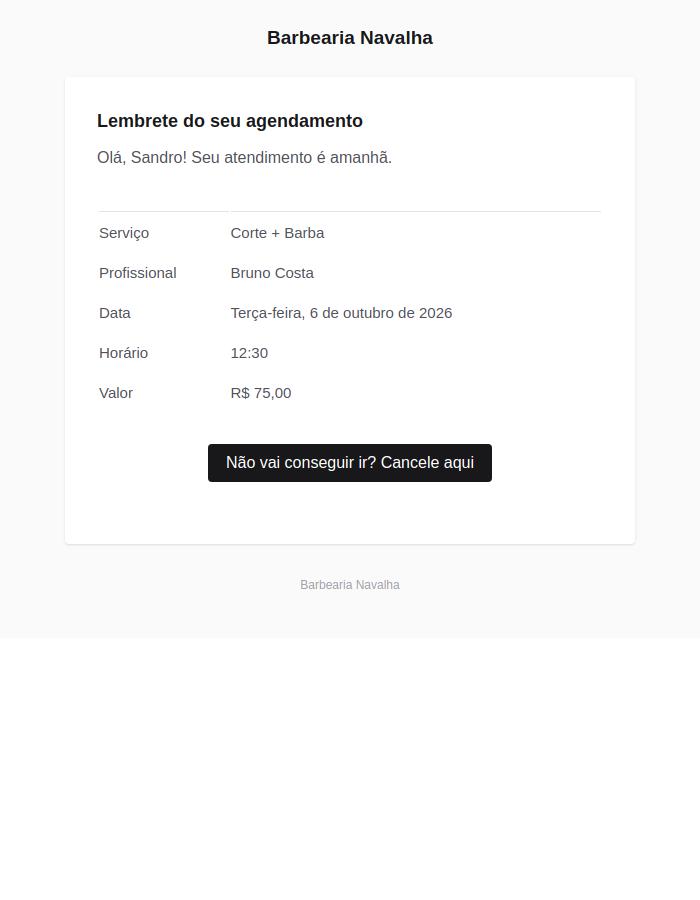
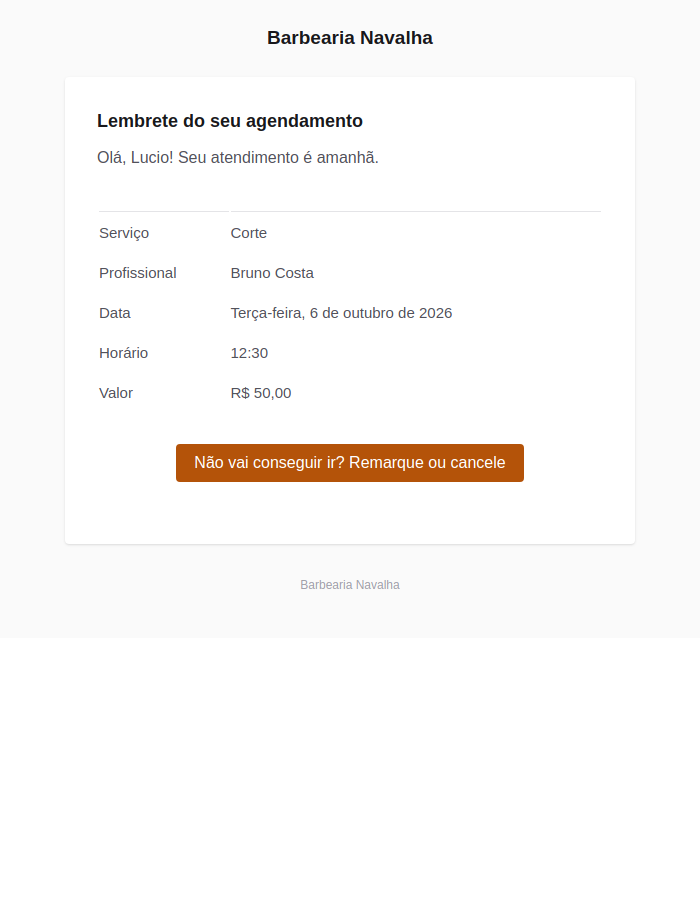
feat: botões dos e-mails na cor da marca do negócio
- Botão do e-mail com a cor do negócio e texto preto ou branco por
  contraste WCAG (BrandColor, mesmo cálculo do front em PHP)
- Override do botão de e-mail do Laravel: estilo inline sobrescreve as
  bordas usadas como padding pelo tema
- Print do e-mail atualizado no README

Claude-Session: https://claude.ai/code/session_01BaTjBq5zA8rTQfDxK6PhMm

Changed region(s): [[0.24, 0.4356, 0.75, 0.56], [0.18, 0.1556, 0.57, 0.1867], [0.39, 0.2489, 0.45, 0.28]]

diff --git a/tests/Unit/BrandColorTest.php b/tests/Unit/BrandColorTest.php
@@ -1,0 +1,39 @@
+<?php
+
+namespace Tests\Unit;
+
+use App\Support\BrandColor;
+use PHPUnit\Framework\Attributes\DataProvider;
+use PHPUnit\Framework\TestCase;
+
+class BrandColorTest extends TestCase
+{
+    /**
+     * @return array<string, array{string, string}>
+     */
+    public static function colors(): array
+    {
+        return [
+            'laranja escuro' => ['#b45309', '#ffffff'],
+            'verde-azulado' => ['#0f766e', '#ffffff'],
+            'quase preto' => ['#111827', '#ffffff'],
+            'amarelo claro' => ['#fde047', '#000000'],
+            'branco' => ['#ffffff', '#000000'],
+            'maiúsculas' => ['#FDE047', '#000000'],
+        ];
+    }
+
+    #[DataProvider('colors')]
+    public function test_picks_the_text_color_with_more_contrast(string $background, string $expected)
+    {
+        $this->assertSame($expected, BrandColor::readableText($background));
+    }
+
+    public function test_validates_hex_colors()
+    {
+        $this->assertTrue(BrandColor::isValid('#b45309'));
+        $this->assertFalse(BrandColor::isValid(null));
+        $this->assertFalse(BrandColor::isValid('red'));
+        $this->assertFalse(BrandColor::isValid('#b45309; background: url(x)'));
+    }
+}

diff --git a/app/Support/BrandColor.php b/app/Support/BrandColor.php
@@ -1,0 +1,39 @@
+<?php
+
+namespace App\Support;
+
+/**
+ * Cor da marca do negócio e o texto legível sobre ela.
+ *
+ * Mesmo cálculo de resources/js/lib/color.ts, para e-mails (sem JavaScript).
+ */
+final class BrandColor
+{
+    public static function isValid(?string $hex): bool
+    {
+        return $hex !== null && preg_match('/^#[0-9a-f]{6}$/i', $hex) === 1;
+    }
+
+    /**
+     * Preto ou branco, o que tiver mais contraste (WCAG 2.x) sobre a cor.
+     */
+    public static function readableText(string $hex): string
+    {
+        $luminance = self::luminance($hex);
+        $contrastWithWhite = 1.05 / ($luminance + 0.05);
+        $contrastWithBlack = ($luminance + 0.05) / 0.05;
+
+        return $contrastWithWhite >= $contrastWithBlack ? '#ffffff' : '#000000';
+    }
+
+    private static function luminance(string $hex): float
+    {
+        [$r, $g, $b] = array_map(function (int $offset) use ($hex) {
+            $channel = hexdec(substr($hex, $offset, 2)) / 255;
+
+            return $channel <= 0.03928 ? $channel / 12.92 : (($channel + 0.055) / 1.055) ** 2.4;
+        }, [1, 3, 5]);
+
+        return 0.2126 * $r + 0.7152 * $g + 0.0722 * $b;
+    }
+}

diff --git a/tests/Feature/Notifications/AppointmentRemindersTest.php b/tests/Feature/Notifications/AppointmentRemindersTest.php
@@ -120,6 +120,7 @@ class AppointmentRemindersTest extends PanelTestCase
     {
         // Sem fake: a fila síncrona serializa a notificação como o worker faria,
         // e o comando roda sem tenant no contexto.
+        $this->tenant->update(['branding' => ['primary_color' => '#b45309', 'logo_path' => null]]);
         $appointment = $this->bookedAt('2026-11-08 12:00');
 
         $this->runRemindersAt('2026-11-09 10:30');
@@ -136,6 +137,9 @@ class AppointmentRemindersTest extends PanelTestCase
         $this->assertSame($customer->email, $email->getTo()[0]->getAddress());
         $this->assertStringContainsString("/agendamentos/{$appointment->id}?signature=", $email->getHtmlBody());
         $this->assertStringNotContainsString(config('app.name'), $email->getHtmlBody());
+        // Botão na cor da marca, com texto legível sobre ela.
+        $this->assertStringContainsString('background-color: #b45309', $email->getHtmlBody());
+        $this->assertMatchesRegularExpression('/border-top: 8px solid #b45309;[^"]*color: #ffffff/', $email->getHtmlBody());
     }
 
     private function bookedAt(string $localDateTime): Appointment

diff --git a/app/Scheduling/AppointmentSummary.php b/app/Scheduling/AppointmentSummary.php
@@ -3,6 +3,7 @@
 namespace App\Scheduling;
 
 use App\Models\Appointment;
+use App\Support\BrandColor;
 use Illuminate\Support\Facades\URL;
 use Illuminate\Support\Str;
 
@@ -17,6 +18,7 @@ final readonly class AppointmentSummary
     public function __construct(
         public int $appointmentId,
         public string $tenantName,
+        public ?string $brandColor,
         public string $service,
         public string $professional,
         public string $customerName,
@@ -49,6 +51,7 @@ final readonly class AppointmentSummary
             return new self(
                 appointmentId: $appointment->id,
                 tenantName: $tenant->name,
+                brandColor: BrandColor::isValid($color = $tenant->branding['primary_color'] ?? null) ? $color : null,
                 service: $appointment->service->name,
                 professional: $appointment->professional->name,
                 customerName: $appointment->customer->name,

diff --git a/resources/views/mail/appointment.blade.php b/resources/views/mail/appointment.blade.php
@@ -21,7 +21,7 @@ Olá, {{ $summary->customerFirstName() }}! {{ $intro }}
 </x-mail::table>
 
 @if ($actionUrl)
-<x-mail::button :url="$actionUrl">
+<x-mail::button :url="$actionUrl" :brand="$summary->brandColor">
 {{ $actionText }}
 </x-mail::button>
 @endif

diff --git a/README.md b/README.md
@@ -82,6 +82,7 @@ Os e-mails saem por fila (Redis) e os lembretes por um comando agendado a cada 5
 - A cor do negócio sobrescreve as variáveis de tema do Tailwind, e todos os componentes herdam a marca.
 - O texto sobre a cor (preto ou branco) é escolhido pelo **contraste WCAG**, então qualquer cor escolhida pelo dono continua legível.
 - O nome da plataforma não aparece nas páginas do cliente — nem na aba do navegador, nem nos e-mails (remetente, cabeçalho, rodapé e `<title>`).
+- Os botões dos e-mails usam a cor do negócio, com o mesmo cálculo de contraste do front portado para PHP ([`BrandColor`](app/Support/BrandColor.php)).
 - Logos SVG são recusados (podem conter scripts e seriam servidos pelo mesmo domínio); o banco guarda o caminho do arquivo, não a URL.
 
 ### Disponibilidade
@@ -89,7 +90,7 @@ Horários livres = **expediente − folgas − agendamentos ativos**, oferecidos
 
 ## Qualidade
 
-- **170 testes** (feature e integração), rodando em **PostgreSQL real** — as regras mais importantes vivem no banco e precisam ser testadas lá
+- **177 testes** (feature e integração), rodando em **PostgreSQL real** — as regras mais importantes vivem no banco e precisam ser testadas lá
 - CI no GitHub Actions: testes com Postgres, Pint, Prettier, ESLint e `tsc` a cada push
 - Regras de negócio fora dos controllers: [`app/Scheduling`](app/Scheduling) concentra disponibilidade, reserva e mudanças de status
 
@@ -152,7 +153,6 @@ docker compose exec app php artisan test
 ## Próximos passos
 
 - Lembretes por WhatsApp
-- Botões do e-mail na cor da marca
 - Cadastro self-service de novos negócios
 - Aviso de agendamentos afetados ao reduzir o expediente
 
